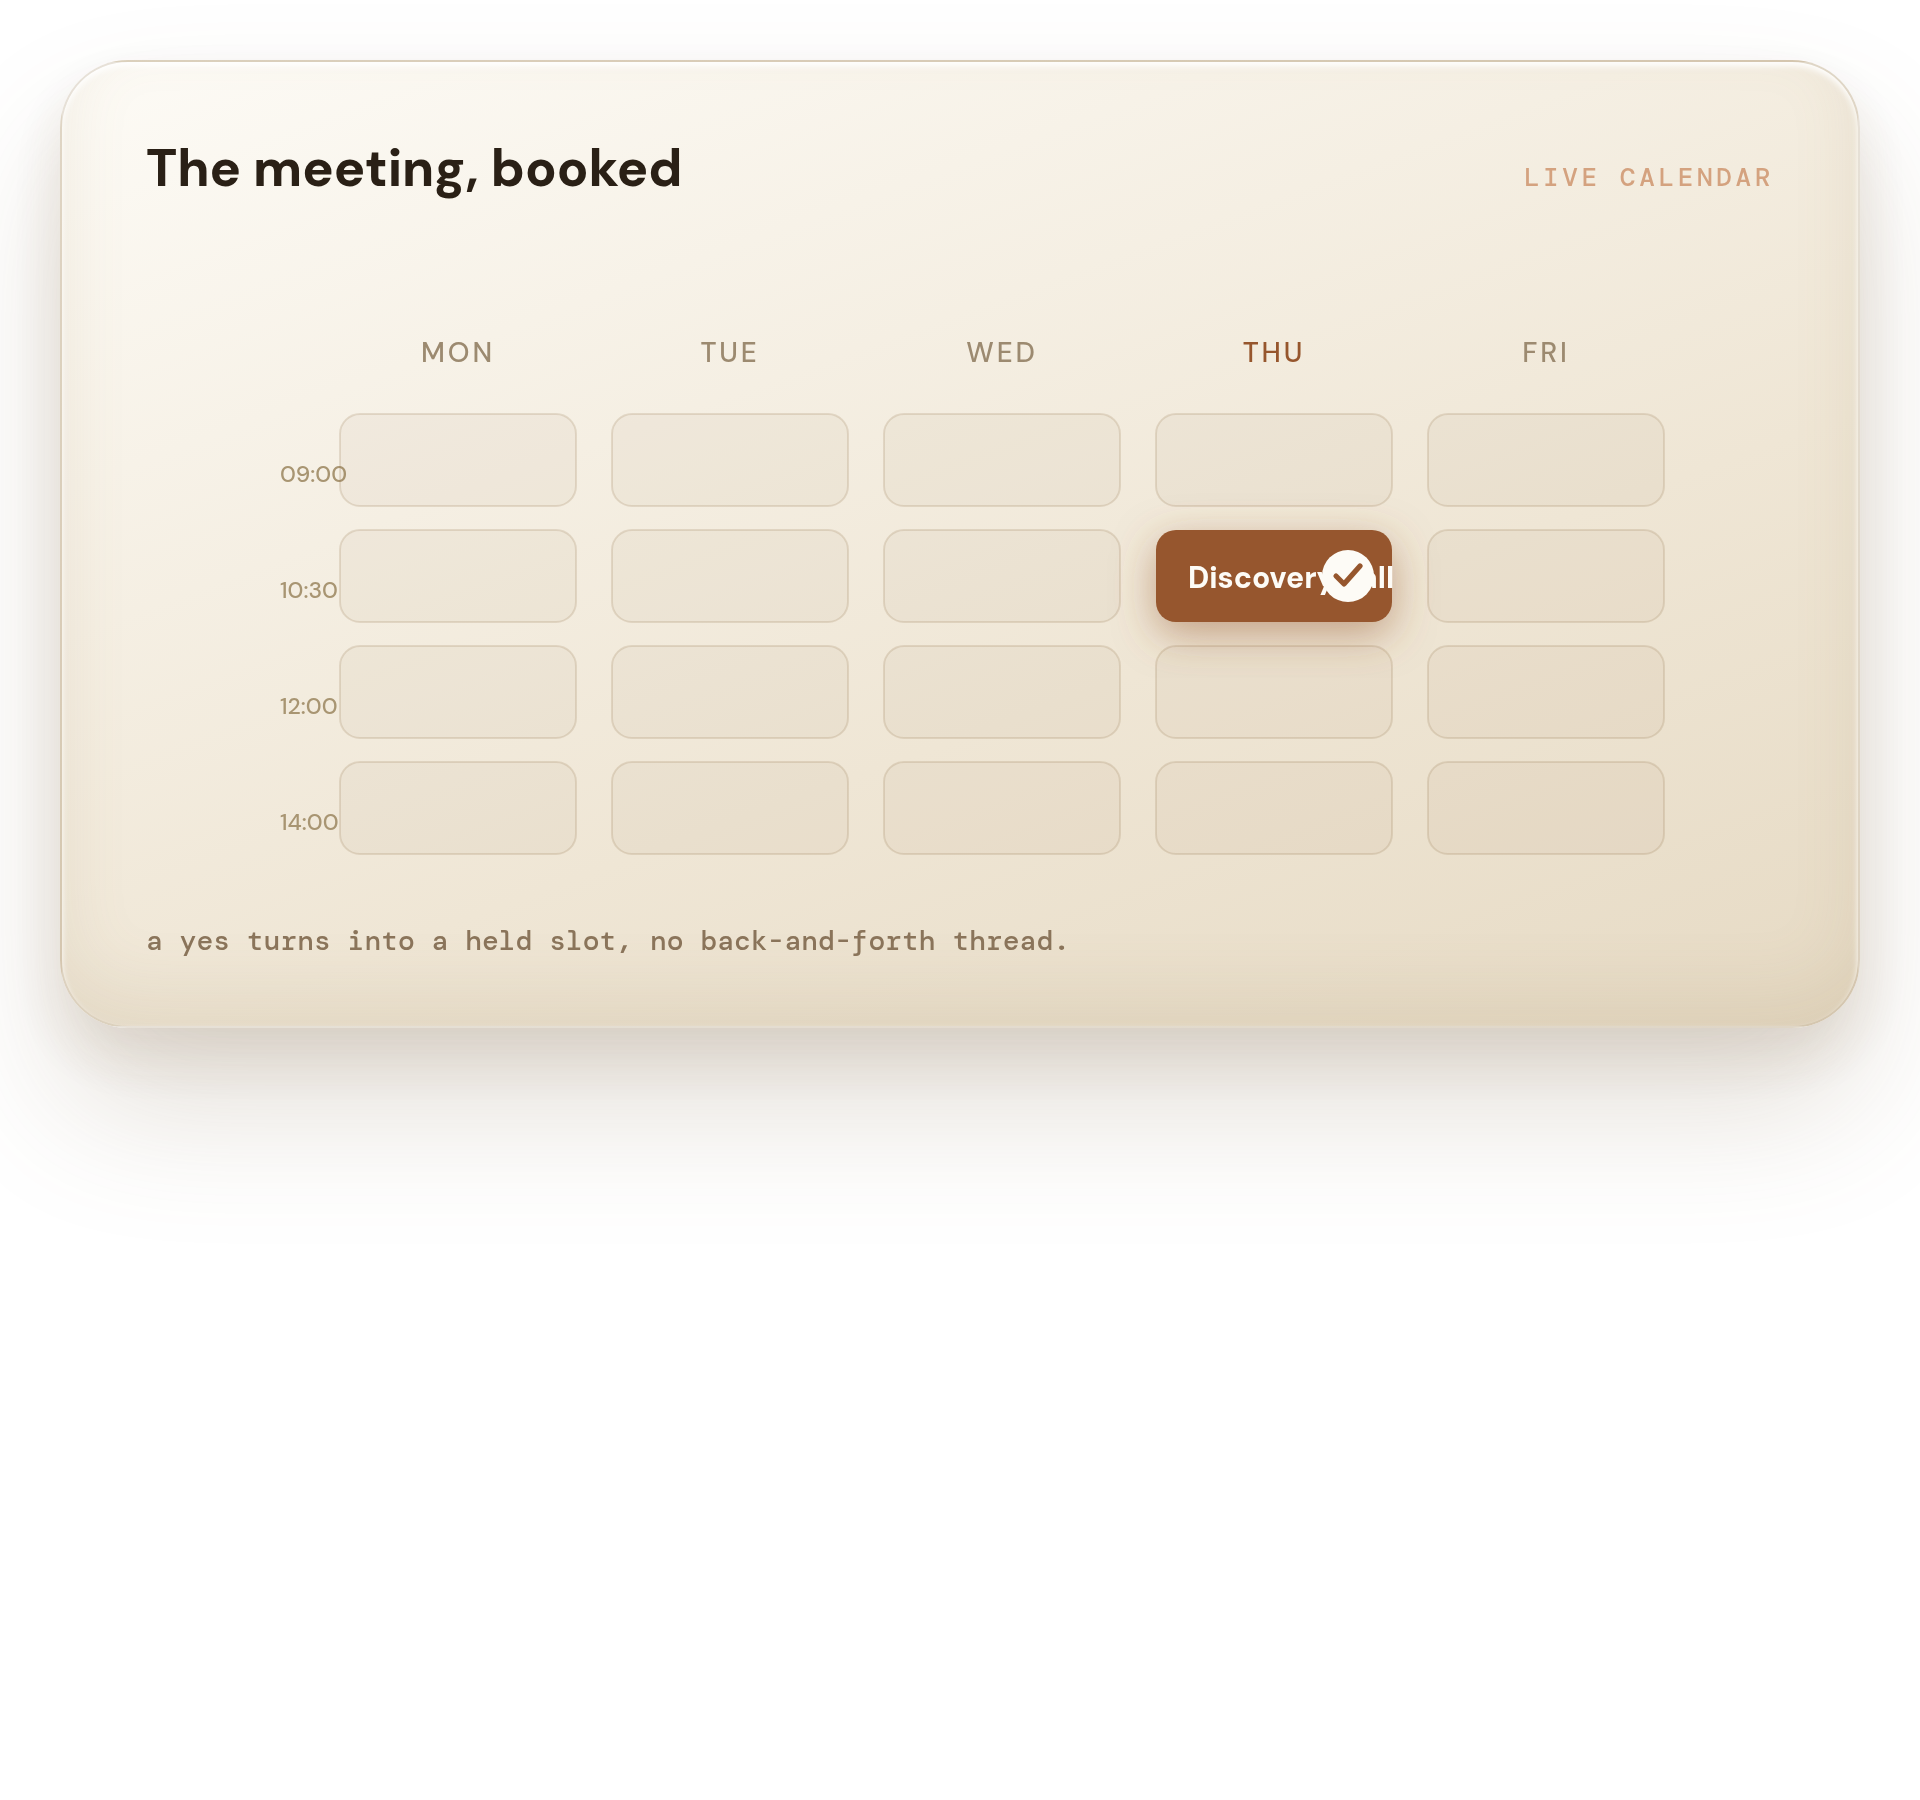
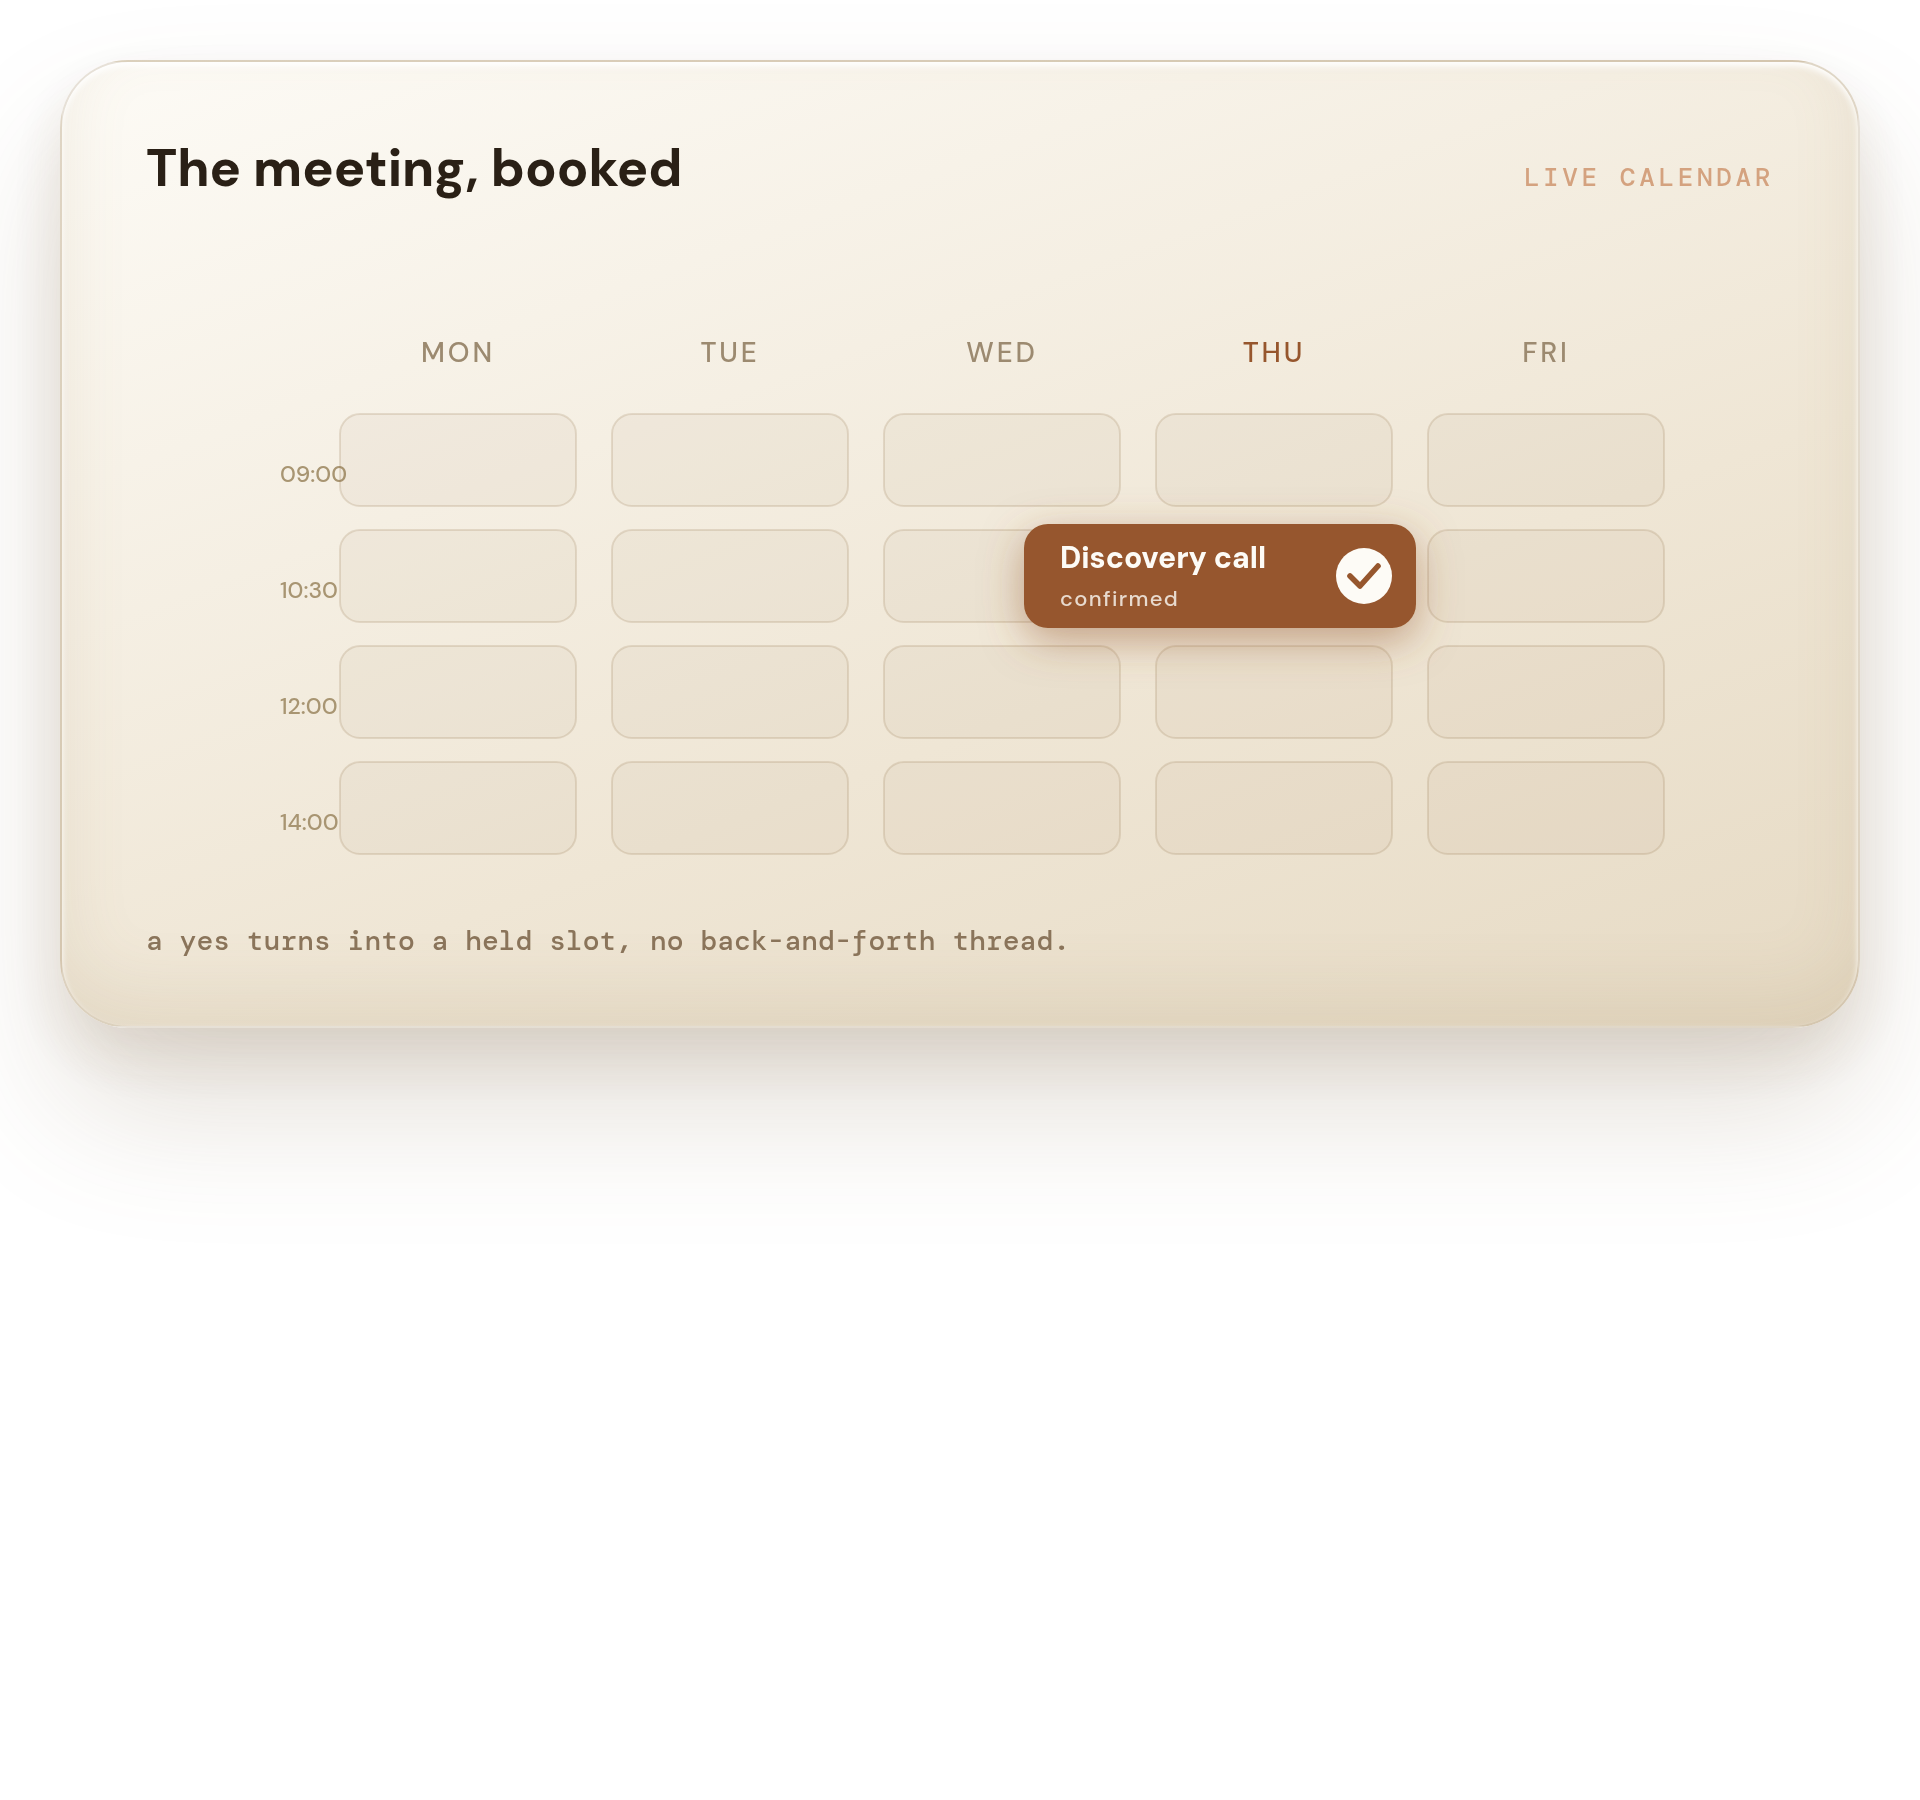
IG Scraped 3: panels s3src41
Claude-Session: https://claude.ai/code/session_014kd6D8JB5VW3pfqpgRb2H7

Changed region(s): [[0.5312, 0.28, 0.75, 0.3733]]

diff --git a/content/_hitl-src/s3src41_t3.py b/content/_hitl-src/s3src41_t3.py
@@ -61,12 +61,13 @@ def books():
             booked=(ci==3 and ri==1)
             if booked: continue
             grid+=f'<rect x="{colX[ci]}" y="{rowsY[ri]}" width="{cw}" height="46" rx="10" fill="rgba(150,120,80,.06)" stroke="rgba(150,120,80,.20)"/>'
-    # booked cell (THU 10:30)
-    bx,by=colX[3],rowsY[1]
-    booked=(f'<rect x="{bx}" y="{by}" width="{cw}" height="46" rx="10" fill="#96562d" filter="url(#bk)"/>'
-      f'<text x="{bx+16}" y="{by+29}" font-family="DM Sans" font-weight="800" font-size="15" fill="#fdfbf6">Discovery call</text>'
-      f'<circle cx="{bx+cw-22}" cy="{by+23}" r="13" fill="#fdfbf6"/>'
-      f'<path d="M{bx+cw-28} {by+23} l4 4 l8 -9" fill="none" stroke="#96562d" stroke-width="2.6" stroke-linecap="round" stroke-linejoin="round"/>')
+    # booked event - a wider floating chip anchored on THU 10:30 so label + check breathe
+    ew=196; bx=colX[3]+cw-ew+12; by=rowsY[1]-3; eh=52
+    booked=(f'<rect x="{bx}" y="{by}" width="{ew}" height="{eh}" rx="12" fill="#96562d" filter="url(#bk)"/>'
+      f'<text x="{bx+18}" y="{by+eh/2-4}" font-family="DM Sans" font-weight="800" font-size="15" fill="#fdfbf6">Discovery call</text>'
+      f'<text x="{bx+18}" y="{by+eh/2+15}" font-family="DM Mono" font-size="11" letter-spacing=".06em" fill="rgba(253,251,246,.8)">confirmed</text>'
+      f'<circle cx="{bx+ew-26}" cy="{by+eh/2}" r="14" fill="#fdfbf6"/>'
+      f'<path d="M{bx+ew-33} {by+eh/2} l5 5 l9 -10" fill="none" stroke="#96562d" stroke-width="2.8" stroke-linecap="round" stroke-linejoin="round"/>')
     return f'''<div style="width:900px;{CARDIV};padding:36px 42px 34px">
       {htitle("The meeting, booked","LIVE CALENDAR","#2a2016")}
       <svg width="740" height="330" viewBox="0 0 740 330" style="display:block;margin:0 auto">
